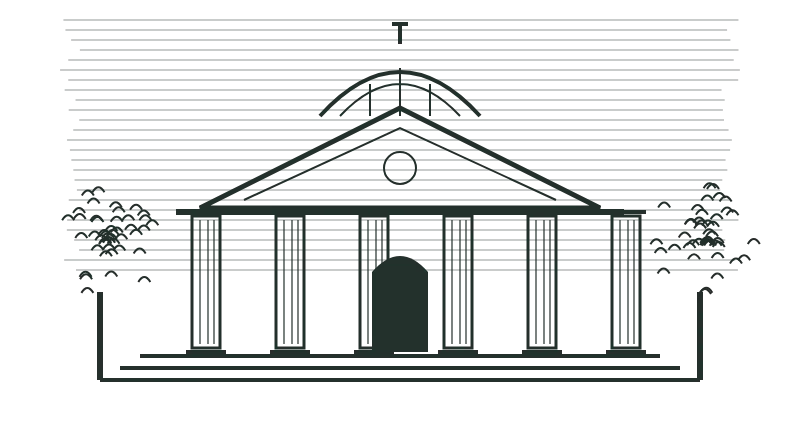
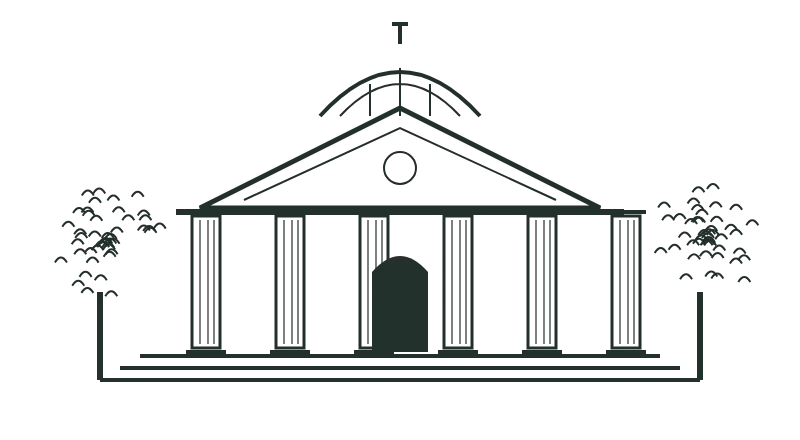
Fix what rendering every look's colors found, and test them
Each look's browser test now checks its other colors, and a new test
finishes a med and a shopping trip with a look on. By eye: Kawaii's night
tape read as caution tape, Acanthus's hatching ended in a hard box,
Vaporwave's palm showed as fragments between windows, and Goth said
"morrow" in the evening.

Changed region(s): [[0.0625, 0.0295, 0.9375, 0.6795], [0.9375, 0.5318, 0.9688, 0.5614], [0.875, 0.65, 0.9062, 0.6795]]

diff --git a/e2e/smoke.spec.ts b/e2e/smoke.spec.ts
@@ -2,6 +2,7 @@ import { readdirSync } from "node:fs";
 import { join } from "node:path";
 import { devices, expect, test, type BrowserContext, type Page } from "@playwright/test";
 import { APPS } from "../lib/apps";
+import { lookOf } from "../lib/looks";
 import { addPasskeyDevice, expectAccessible, expectNoErrorScreen, watchForProblems } from "./support";
 
 /**
@@ -405,6 +406,20 @@ for (const [look, color, face] of [
           if (shots) await page.screenshot({ path: `${shots}/${look}-${scheme}${path.replace(/\//g, "-")}.png` });
         }
       }
+      // The look's other colors, which change its art and glow too, on a busy page and Home.
+      const others = lookOf(look).colors.map((c) => c.id).filter((id) => id !== color);
+      for (const scheme of ["light", "dark"] as const) {
+        await page.evaluate((s) => localStorage.setItem("theme", s), scheme);
+        for (const path of ["/", "/chores"]) {
+          await page.goto(path);
+          for (const other of others) {
+            await root.evaluate((el, id) => el.setAttribute("data-color", id), other);
+            await page.waitForLoadState("networkidle");
+            await expectAccessible(page, `${look} ${other} ${scheme} ${path}`);
+            if (shots) await page.screenshot({ path: `${shots}/${look}-${other}-${scheme}${path.replace(/\//g, "-")}.png` });
+          }
+        }
+      }
       // The phone: the bottom bar, the scene and a long name's room.
       await page.setViewportSize({ width: 375, height: 812 });
       await page.goto("/");
@@ -647,6 +662,65 @@ test("a dose away from home shows both times, and a new zone keeps saved days on
   }
   await page.goto("/meds");
   await expect(page.getByText(/8:00\sAM/).first()).toBeVisible();
+  problems.expectNone();
+});
+
+test("taking a med and finishing a shopping trip are marked by the look too", async () => {
+  const root = page.locator("[data-app-root]");
+  const start = { look: await root.getAttribute("data-look"), color: await root.getAttribute("data-color") };
+  const sheet = page.getByRole("dialog", { name: "My look" });
+  const wear = async (id: string, colorId: string) => {
+    await page.goto("/settings");
+    await page.getByRole("button", { name: "My look" }).click();
+    await sheet.locator(`input[name="look"][value="${id}"]`).check({ force: true });
+    await sheet.locator(`input[name="color"][value="${colorId}"]`).check({ force: true });
+    const keep = sheet.getByRole("button", { name: "Keep it" });
+    if (await keep.count()) await keep.click();
+    else await sheet.getByRole("button", { name: "Done" }).click();
+    await expect(sheet).toBeHidden();
+    await expect(root).toHaveAttribute("data-look", id);
+  };
+  // Watched from inside the page, for how long it stays: a trip's page changes under the moment.
+  const watchMoment = () =>
+    page.evaluate(() => {
+      const seen: { word?: string | null; lasted?: number } = {};
+      (window as unknown as { seenMoment: typeof seen }).seenMoment = seen;
+      let began = 0;
+      const watch = new MutationObserver((changes) => {
+        for (const change of changes) {
+          for (const node of change.addedNodes) {
+            if (node instanceof HTMLElement && node.className === "ui-moment") {
+              seen.word = node.textContent;
+              began = performance.now();
+            }
+          }
+          for (const node of change.removedNodes) {
+            if (node instanceof HTMLElement && node.className === "ui-moment") {
+              seen.lasted = performance.now() - began;
+              watch.disconnect();
+            }
+          }
+        }
+      });
+      watch.observe(document.body, { childList: true, subtree: true });
+    });
+  const seenMoment = () => page.evaluate(() => (window as unknown as { seenMoment: { word?: string; lasted?: number } }).seenMoment);
+
+  try {
+    await wear("brut", "banana");
+    await page.goto("/meds");
+    await watchMoment();
+    await page.getByRole("button", { name: "Complete" }).first().click();
+    await expect.poll(async () => (await seenMoment()).word, { timeout: 10_000 }).toBe("DONE.");
+
+    await page.goto("/groceries/shop");
+    await watchMoment();
+    await page.getByRole("button", { name: "Finish trip" }).click();
+    await expect.poll(async () => (await seenMoment()).lasted, { timeout: 10_000 }).toBeGreaterThan(1_000);
+    expect((await seenMoment()).word).toBe("DONE.");
+  } finally {
+    await wear(start.look!, start.color!);
+  }
   problems.expectNone();
 });
 

diff --git a/app/looks/vapor.css b/app/looks/vapor.css
@@ -65,19 +65,18 @@
 [data-look="vapor"] main#main:focus-visible {
   --tw-ring-color: var(--ring);
 }
-/* Home's desktop has a column and a palm behind the windows. */
+/* Home's desktop has a column behind the windows. */
 @media (min-width: 768px) {
   [data-look="vapor"] main#main:has(.ui-home),
   .dark [data-look="vapor"] main#main:has(.ui-home) {
     background-image:
       url(/looks/vapor-column.webp),
-      url(/looks/vapor-palm.webp),
       linear-gradient(var(--vapor-gridc) 1px, transparent 1px),
       linear-gradient(90deg, var(--vapor-gridc) 1px, transparent 1px);
-    background-size: 6.5rem auto, 13rem auto, 32px 32px, 32px 32px;
-    background-position: right 1rem bottom 0, left 7rem bottom 0, 0 0, 0 0;
-    background-repeat: no-repeat, no-repeat, repeat, repeat;
-    background-attachment: fixed, fixed, local, local;
+    background-size: 6.5rem auto, 32px 32px, 32px 32px;
+    background-position: right 1rem bottom 0, 0 0, 0 0;
+    background-repeat: no-repeat, repeat, repeat;
+    background-attachment: fixed, local, local;
   }
 }
 /* Scanlines, and a VHS tracking bar that rolls past. Nothing can tap them. */
@@ -295,6 +294,15 @@
   [data-look="vapor"] .ui-scene {
     background-position: right bottom, right 0.25rem top 0;
     background-size: 8.5rem auto, 2.25rem auto;
+  }
+}
+/* The palm joins them where there's room, since the windows would cover it on the desktop. */
+@media (min-width: 1024px) {
+  [data-look="vapor"] .ui-scene {
+    background:
+      url(/looks/vapor-bust.webp) right bottom/8.5rem auto no-repeat,
+      url(/looks/vapor-sphere.webp) right 8.5rem top 0.25rem/3rem auto no-repeat,
+      url(/looks/vapor-palm.webp) right 13rem bottom/auto 10.5rem no-repeat;
   }
 }
 [data-look="vapor"] .ui-scene::before {

diff --git a/app/looks/kawaii.css b/app/looks/kawaii.css
@@ -32,6 +32,8 @@
   --grid-line: transparent;
   --radius: 1rem;
   --kawaii-line: #4a1636;
+  --kawaii-tape: var(--sun);
+  --kawaii-tape-2: var(--chrome);
   --kawaii-dot: #ffcfe1;
   --kawaii-scene: #bfe9ff;
   --kawaii-scene-ray: #d7f2ff;
@@ -56,6 +58,8 @@
   --input: #ff9cc4;
   --ring: #ffe14d;
   --kawaii-line: #ff9cc4;
+  --kawaii-tape: var(--brand-text);
+  --kawaii-tape-2: #fff1f8;
   --kawaii-dot: #2e2450;
   --kawaii-scene: #3a2a63;
   --kawaii-scene-ray: #32245a;
@@ -264,7 +268,7 @@
   height: 1.25rem;
   margin-left: -2.5rem;
   transform: rotate(-4deg);
-  background: repeating-linear-gradient(45deg, var(--sun) 0 8px, var(--chrome) 8px 16px);
+  background: repeating-linear-gradient(45deg, var(--kawaii-tape) 0 8px, var(--kawaii-tape-2) 8px 16px);
   box-shadow: 0 1px 2px #00000033;
   opacity: 0.92;
   pointer-events: none;

diff --git a/lib/looks.ts b/lib/looks.ts
@@ -134,7 +134,7 @@ export const LOOKS: readonly Look[] = [
       gothColor("amethyst", "Amethyst", "#6d2fb8", "#54258f", "#6d2fb8", "#7a3bc6", "#c39bff", "#4a2a78"),
       gothColor("rosewater", "Rosewater", "#b0386f", "#8f2a58", "#b0386f", "#bf467c", "#ff9ad0", "#6e2a50"),
     ],
-    hello: (firstName) => `Good morrow, ${firstName}`,
+    hello: (firstName) => `Well met, ${firstName}`,
     moment: "So it is done",
   },
   {

diff --git a/docs/BUILD.md b/docs/BUILD.md
@@ -1228,3 +1228,11 @@ fetched only for a name that needs it; other alphabets, kana included, now use t
 Nothing in the app uses kana today, so add those files if kana kickers get built. The fonts' OFL
 notices ship in `public/licenses/fonts.txt`. To change a package, update that file too;
 `lib/fonts-guard.test.ts` checks the license, the pin and that each file exists.
+
+### Looks: checked in every color
+
+Each look's browser test now runs `axe` on its other colors too, on Home and Chores, day and night,
+and a test finishes a med and a shopping trip with a look on. Looking at those screenshots found what
+`axe` can't: Kawaii's night tape read as caution tape, hatching behind Acanthus's house ended in a
+hard box, and Vaporwave's palm showed only as fragments between windows, so it moved up beside the
+bust. Goth's greeting no longer says "morrow" in the evening.
